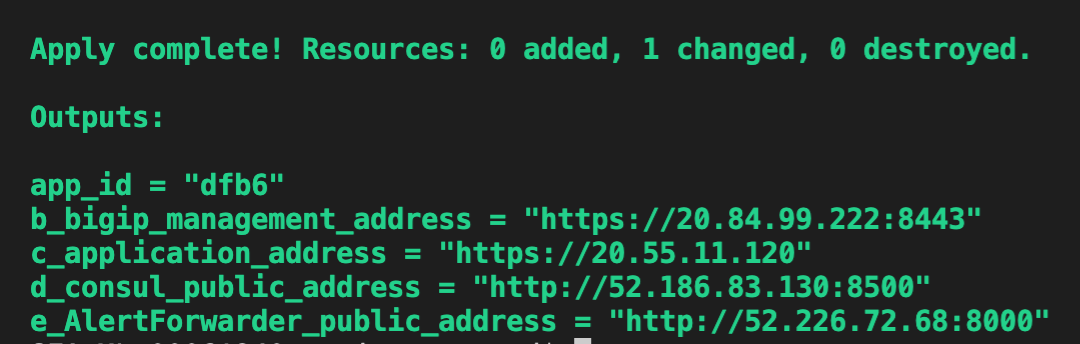
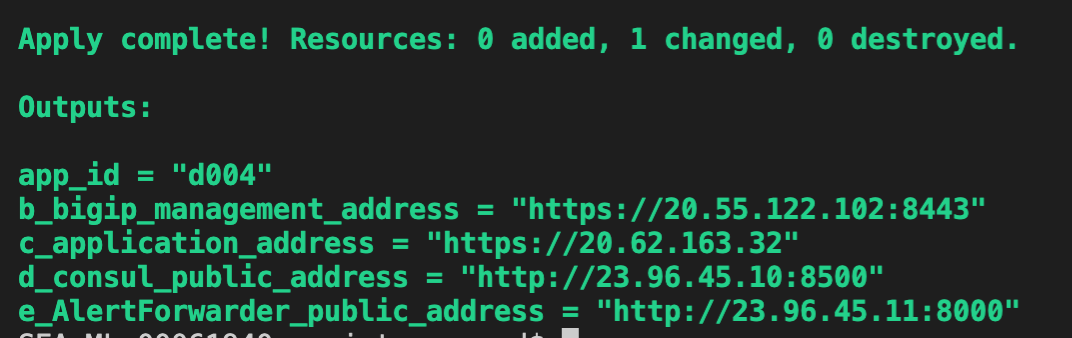
update

Changed region(s): [[0.0, 0.4734, 0.9851, 1.0], [0.0, 0.0592, 0.9543, 0.2071], [0.0, 0.2663, 0.1539, 0.3846]]

diff --git a/README.md b/README.md
@@ -55,6 +55,10 @@ The following variables, (*located in ./terraform/terraform.tfvars*) should be m
 
 1. Navigate to the scripts directory, (*adc-telemetry-based-autoscaling/azure/scripts/*) and execute the deployment script - (*sh ./deploy.sh*).  The deployment script executes the Terraform project as illustrated above and migrates the local Terraform state to remote state located on the newly created Hashicorp Consul server.  The GitHub runners will reference the migrated state and repo-hosted terraform to perform infrastructure updates, (*scaling operations*).
 
+With the Terraform deployment completed, you should be presented with outputs similar to below.
+
+<img src="images/outputs.png" alt="Flowers">
+
 ## Configuring Alerts
 
 ### The AlertForwarder service
